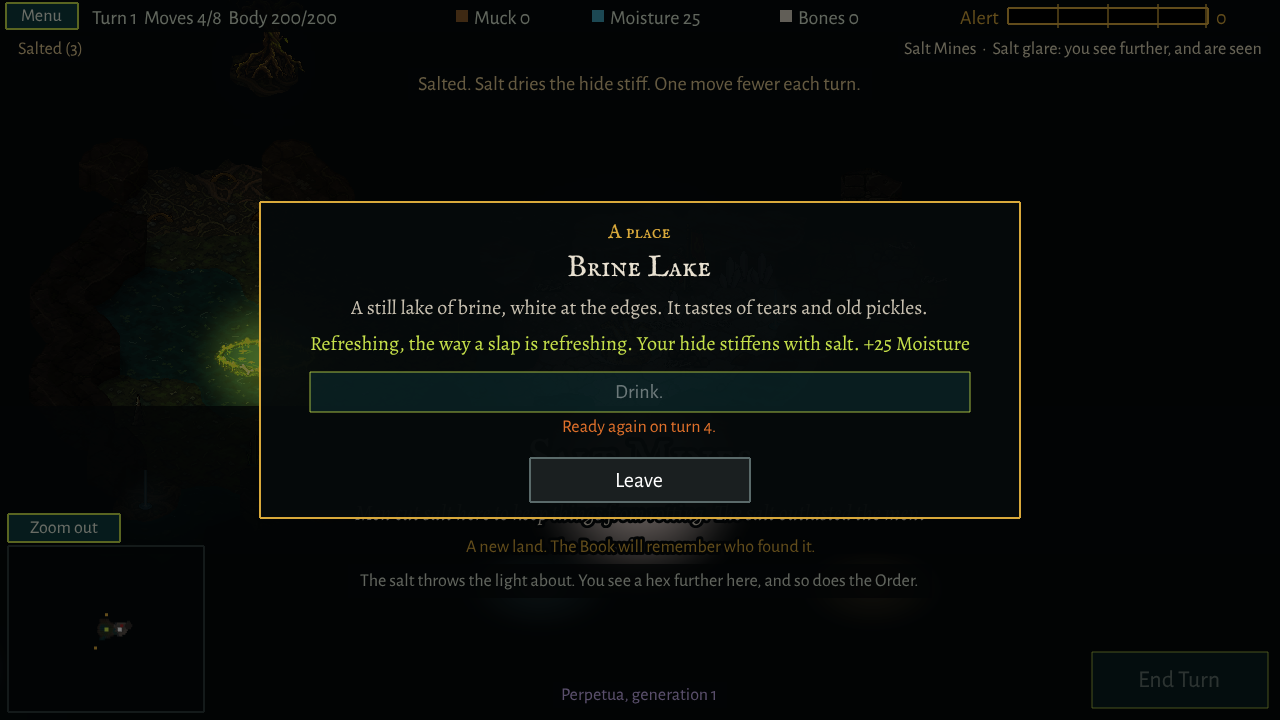
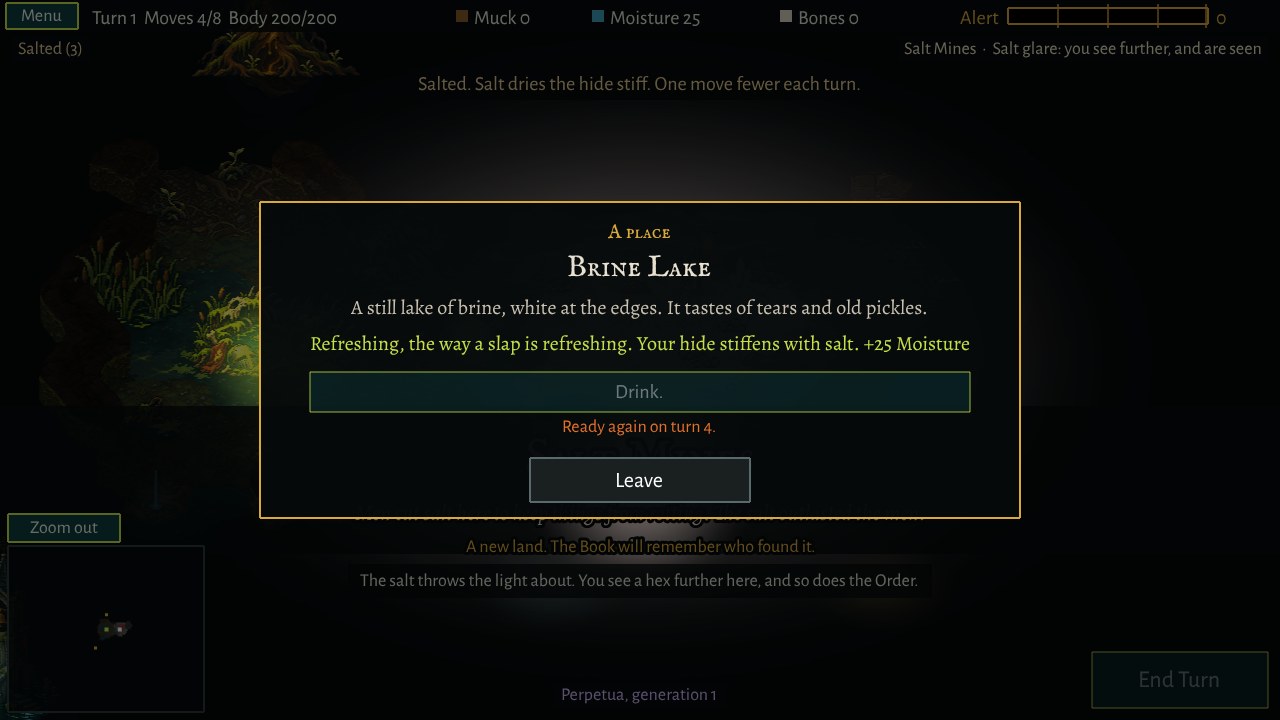
Big World art: Piotr's Flooded Caves, Fungal Deeps, Lair Swamp and Root Tangle wired in
The import now reads subfolders of art/raw/, where the 32 new pictures live
under their own names (aliased in art/aliases.json): props, patches, clumps,
walls, landmarks, the water current and three discovery vistas. The land
reveal's light is a touch quieter (sweepAlpha 0.38, hexAlpha 0.42).

Claude-Session: https://claude.ai/code/session_01YAxGtVC6TZfSpD8XVKcdPa

diff --git a/src/scenes/MapScene.ts b/src/scenes/MapScene.ts
@@ -100,13 +100,13 @@ const LAND_REVEAL = {
   sweepHexes: 9,
   sweepMs: 1700,
   secondSweepMs: 350,
-  sweepAlpha: 0.5,
+  sweepAlpha: 0.38,
   maxHexes: 90,
   firstHexMs: 150,
   perHexMs: 110,
   hexMs: 900,
   hexGlowSize: 1.6,
-  hexAlpha: 0.55,
+  hexAlpha: 0.42,
   moteRise: 14,
   letterSpacing: [14, 0] as const,
   titleMs: 1600,
